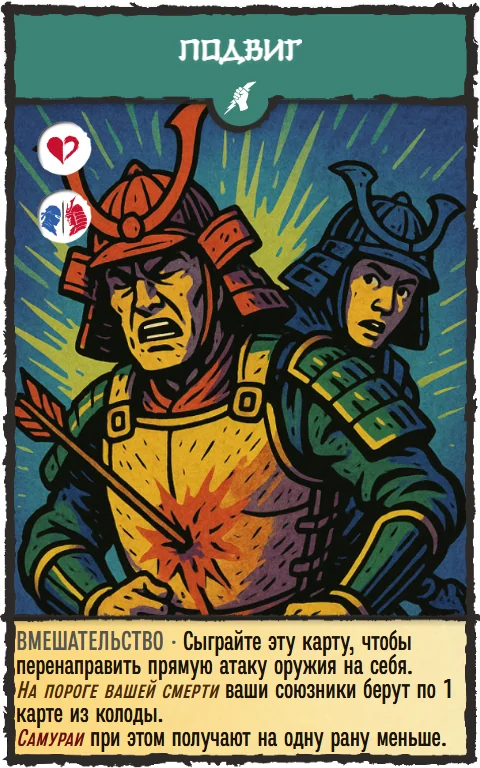
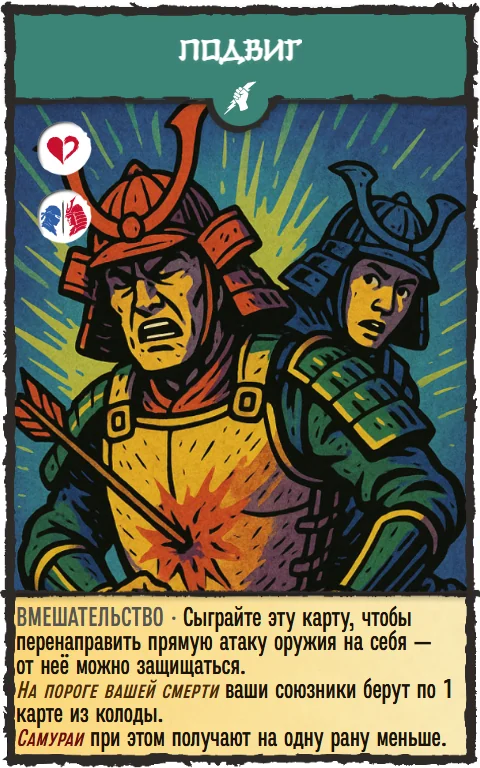
Подвиг #125: от перенаправленной атаки можно защищаться; TODO — заметки после трёх партий
Подвиг: «— от неё можно защищаться» / "— you may defend against it",
тег toPrint, превью 125 / 125-en в rules/media/cards перерисованы.
LAST_IDEAS_30_08.md: раздел «Заметки после трёх партий — 24.10.2026»,
десять пунктов (Осколки, Потасовка, Щитолом, момент вмешательства,
Хандзо, Лазутчик/Ёкай и заряды аур, Часовой × АоЕ, Сон Ёкая, конец,
складывающиеся ауры).

Changed region(s): [[0.0, 0.75, 1.0, 0.9062]]

diff --git a/js/cards.js b/js/cards.js
@@ -2432,9 +2432,9 @@ const CARDS = [
     qty: 1,
     group: "intervention",
     icons: ["hpctx", "rolectx"],
-    tags: [],
-    desc: "Сыграйте эту карту, чтобы перенаправить прямую атаку оружия на себя.[NL]{На пороге вашей смерти} ваши союзники берут по 1 карте из колоды.[NL]{Самураи} при этом получают на одну рану меньше.",
-    enDesc: "Play this card to take a direct weapon attack onto yourself.[NL]{At death's door} your allies each draw a card.[NL]{Samurai} take one wound less doing so.",
+    tags: ["toPrint"],
+    desc: "Сыграйте эту карту, чтобы перенаправить прямую атаку оружия на себя — от неё можно защищаться.[NL]{На пороге вашей смерти} ваши союзники берут по 1 карте из колоды.[NL]{Самураи} при этом получают на одну рану меньше.",
+    enDesc: "Play this card to take a direct weapon attack onto yourself — you may defend against it.[NL]{At death's door} your allies each draw a card.[NL]{Samurai} take one wound less doing so.",
     img: "cards/card_124_podvig.png"
   },
   {

diff --git a/LAST_IDEAS_30_08.md b/LAST_IDEAS_30_08.md
@@ -12,6 +12,38 @@
 
 ---
 
+## Заметки после трёх партий — 24.10.2026
+
+Сырые строки после трёх сыгранных партий, разложены по картам; формулировки авторские.
+Починены опечатки диктовки: `Щитом` → Щитолом, `часовой м аое` → Часовой и АоЕ,
+`Сон Екая` → Сон Ёкая.
+
+- [ ] **Осколки #1029 — разрушают и оружие, и модификатор.** Сейчас уничтожают только
+  сыгранное оружие, атака отменяется без траты попытки; модификатор той же атаки тоже
+  должен уходить в сброс. Рядом — открытый пункт «Осколки #1029 × Хандзо» в «Карты —
+  точечные правки»
+- [ ] **Потасовка #83 — почему она сбрасывает ловушки?** Сейчас: «все остальные активные
+  игроки теряют свою стойку и сбрасывают свою ловушку»
+- [ ] **Щитолом #1031 — дописать, что дальше игрок сам не может защищаться.** Сейчас: «в
+  ответ на карту защиты: она уничтожается, атака проходит как без защиты» — не сказано,
+  можно ли после этого сыграть вторую защиту
+- [ ] **Вмешательство — не раньше первого действия чужого игрока в его ход.** Правило
+  момента: в чужой ход вмешаться можно только после того, как он сделал первое действие.
+  Править `rules/content-ru.html`, следом EN
+- [ ] **Хандзо #138 — митигировать, но 1 хп тратит (?).** Текущий текст уже «защищаться от
+  прямых атак оружием ценой одной раны» — расшифровать, что именно поменять
+- [ ] **Лазутчик #1124 и Ёкай #1135 против аур с зарядами.** Лазутчик забирает чужую ауру,
+  Ёкай — любую карту со стола; что происходит с зарядами ауры у нового владельца
+- [ ] **Часовой #1209 и АоЕ-атаки — как взаимодействуют.** Часовой отвечает на раны
+  «прямой атакой по вашим союзникам»; считается ли групповая атака прямой. См. пункт про
+  усиление Часового в «Заметках с телефона — 20.09.2026»
+- [ ] **Сон Ёкая #1213 — слишком медленная, максимум 1 ход.** Аура: рука носителя лежит
+  открыто, союзники играют его карты как свои — ограничить одним ходом. Старый вариант
+  #1030 лежит в корзине
+- [ ] **Конец по картам продумать (?)** — расшифровать: конец партии, конец колоды?
+- [ ] **Stackable auras — minimal effect at the start.** Ауры, которые складываются: на
+  старте эффект минимальный
+
 ## Заметки с телефона — 20.09.2026
 
 Сырые строки, разложены по картам; формулировки авторские.
